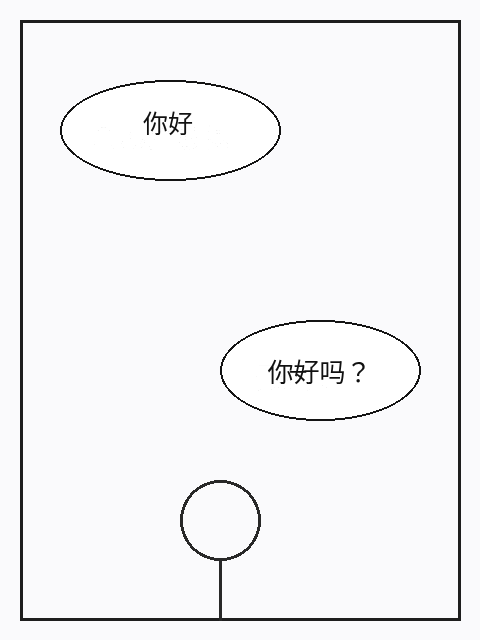
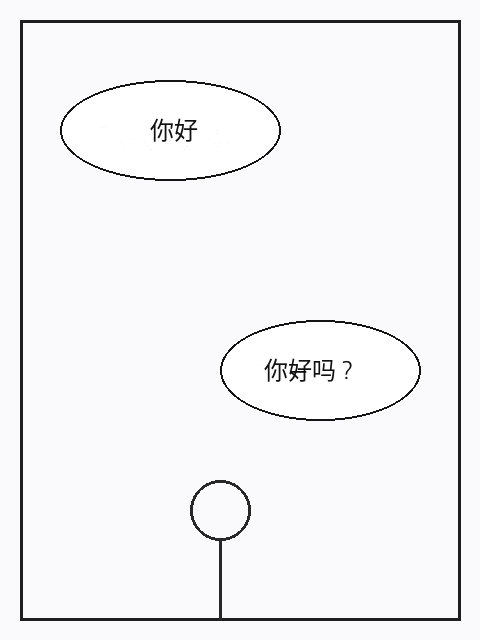
Fix manga interior rescue, overlap preflight and session lifecycle

Changed region(s): [[0.375, 0.75, 0.5625, 0.875], [0.5312, 0.5625, 0.7812, 0.625], [0.2812, 0.1562, 0.4062, 0.2188]]

diff --git a/manga-content.js b/manga-content.js
@@ -3,6 +3,8 @@
   globalThis.kiloceanMangaInstalled = true;
   const U = globalThis.DeepSeekTranslatorUtils;
   let generation=0, host, token;
+  const hideOverlays=U.createMangaOverlayHider();
+  const captureReleases=new Set();
   const send = async message => {
     const result=await chrome.runtime.sendMessage(message);
     if (!result?.ok) throw new Error(result?.error || "无法处理选区");
@@ -10,6 +12,8 @@
   };
   function clear() {
     generation++;
+    for (const release of captureReleases) release();
+    captureReleases.clear();
     host?.remove(); host=null;
     if (token) chrome.runtime.sendMessage({type:"MANGA_CANCEL",token}).catch(()=>{});
     token=null;
@@ -54,12 +58,10 @@
       select.onpointerdown=null;select.onpointermove=null;select.onpointerup=null;
       const selectedLayout=layout();
       bar.querySelector('span').textContent='正在本地截取选区…';
-      const hidden=[];
-      // Include text selection/progress/caption overlays as well as this UI.
-      for(const el of document.querySelectorAll('[data-deepseek-translator-ui],#kilocean-progress-host,#kilocean-selection-host,#deepseek-translator-toast-host')) {
-        if (!['fixed','absolute'].includes(getComputedStyle(el).position)) continue;
-        hidden.push([el,el.style.visibility]);el.style.visibility='hidden';
-      }
+      // Shared ownership across overlapping generations prevents stale restores.
+      const releaseOverlays=hideOverlays(Array.from(document.querySelectorAll('[data-deepseek-translator-ui],#kilocean-progress-host,#kilocean-selection-host,#deepseek-translator-toast-host'))
+        .filter(el=>['fixed','absolute'].includes(getComputedStyle(el).position)));
+      captureReleases.add(releaseOverlays);
       try {
         await new Promise(r=>requestAnimationFrame(()=>requestAnimationFrame(r)));
         const capture=await send({type:"MANGA_CAPTURE",token:binding});
@@ -73,7 +75,7 @@
         const ctx=canvas.getContext('2d',{willReadFrequently:true});
         ctx.drawImage(img,x,y,canvas.width,canvas.height,0,0,canvas.width,canvas.height);
         const original=canvas.toDataURL('image/png');
-        const hash=await U.mangaHash(original+selectedLayout);
+        const {hash,layout:layoutHash}=await send({type:"MANGA_HASH",token:binding,image:original,layout:selectedLayout});
         if(!alive())return;
         select.remove();box.remove();bar.replaceChildren();
         const note=document.createElement('span');note.textContent='仅将选区发送至 DeepSeek 翻译';bar.append(note);
@@ -85,13 +87,13 @@
           if(layout()!==selectedLayout){note.textContent='页面位置已变化，请取消后重新框选';return;}
           confirm.disabled=true;note.textContent='DeepSeek 正在识别与翻译…';
           try {
-            const result=await send({type:'MANGA_TRANSLATE',token:binding,confirmed:true,image:original,width:canvas.width,height:canvas.height,layout:selectedLayout,hash});
+            const result=await send({type:'MANGA_TRANSLATE',token:binding,confirmed:true,image:original,width:canvas.width,height:canvas.height,layout:layoutHash,hash});
             if(!alive() || result.hash!==hash)return;
             if(layout()!==selectedLayout)throw new Error('页面位置已变化，结果未显示，请重新框选');
-            const count=U.mangaDraw(ctx,result.bubbles,canvas.width,canvas.height);
-            note.textContent=`已替换 ${count} 处；不可靠或非白底区域保留原图。页面翻页后请重新框选。`;
+            const drawn=U.mangaDraw(ctx,result.bubbles,canvas.width,canvas.height);
+            note.textContent=U.mangaResultNote(drawn,result.bubbles.length);
             preview.remove();confirm.remove();
-            if(!count)return;
+            if(!drawn.painted)return;
             Object.assign(canvas.style,{left:rect.x+'px',top:rect.y+'px',width:rect.w+'px',height:rect.h+'px'});
             root.prepend(canvas);
             button('原图 / 译图',()=>{canvas.hidden=!canvas.hidden;});
@@ -100,17 +102,21 @@
           } catch(error) {if(alive()){note.textContent=error.message+'；请取消后重试';confirm.remove();}}
         });
       } catch(error) {if(alive())bar.querySelector('span').textContent=error.message+'；请取消后重试';}
-      finally {for(const [el,visibility] of hidden)el.style.visibility=visibility;}
+      finally {captureReleases.delete(releaseOverlays);releaseOverlays();}
     };
   }
   // Navigation clears bindings; reader-internal page flips cannot be reliably detected.
   addEventListener('pagehide',clear);
   addEventListener('popstate',clear);
+  addEventListener('hashchange',clear);
   addEventListener('resize',clear);
-  addEventListener('scroll',()=>{if(host)clear();},{passive:true});
+  addEventListener('scroll',()=>{if(host)clear();},{passive:true,capture:true});
   addEventListener('keydown',e=>{if(e.key==='Escape')clear();});
   chrome.runtime.onMessage.addListener((message,sender,reply)=>{
-    if(sender.id!==chrome.runtime.id || message?.type!=='MANGA_START')return;
+    if(sender.id!==chrome.runtime.id)return;
+    // tabs.onUpdated reports detectable pushState/replaceState URL changes.
+    if(message?.type==='MANGA_INVALIDATE') { if(message.token===token)clear(); return; }
+    if(message?.type!=='MANGA_START')return;
     start().catch(()=>clear());reply({ok:true});
   });
 })();

diff --git a/shared.js b/shared.js
@@ -1032,30 +1032,32 @@
   }
   function mangaDraw(ctx, bubbles, width, height) {
     let painted=0;
-    const paintedBoxes=[];
-    for (const b of bubbles) {
-      let box=mangaBox(b,width,height);
-      if (!box) continue;
+    const plans=bubbles.map(b=>({b, box:mangaBox(b,width,height),
+      raw:mangaBox({...b,confidence:1,translation:"geometry"},width,height)}));
+    for (const plan of plans) {
+      const b=plan.b;
+
+      let box=plan.box;
+      if (!box) { plan.reason="invalid-box-or-confidence"; continue; }
       let region=ctx.getImageData(box[0],box[1],box[2]-box[0],box[3]-box[1]);
       if (!mangaWhiteRegion(region.data,box[2]-box[0],box[3]-box[1])) {
-        const original=mangaWhiteStats(region.data,box[2]-box[0],box[3]-box[1]);
         let expanded=false;
-        // Tight OCR bounds can clip glyph strokes. Only rescue an already
-        // mostly-white interior when a small margin improves edge safety.
-        if (original.white>=.85) for (const pad of [2,4,6]) {
+        // The same safety thresholds apply to every candidate, including
+        // interior failures whose original perimeter is already perfectly white.
+        for (const pad of [2,4,6,8]) {
           const candidate=mangaBox({...b,bbox:[Math.max(0,box[0]-pad),Math.max(0,box[1]-pad),Math.min(width,box[2]+pad),Math.min(height,box[3]+pad)]},width,height);
           if (!candidate) continue;
           const cw=candidate[2]-candidate[0], ch=candidate[3]-candidate[1];
           const sample=ctx.getImageData(candidate[0],candidate[1],cw,ch);
           const stats=mangaWhiteStats(sample.data,cw,ch);
-          if (stats.white>=.88 && stats.interior>=.88 && stats.perimeter>=.9 && stats.perimeter>original.perimeter) {
+          if (stats.white>=.88 && stats.interior>=.88 && stats.perimeter>=.9) {
             box=candidate; region=sample; expanded=true; break;
           }
         }
-        if (!expanded) continue;
+        if (!expanded) { plan.reason="unsafe-background"; continue; }
       }
       const [x,y,right,bottom]=box, w=right-x,h=bottom-y;
-      if (paintedBoxes.some(([a,b,c,d])=>x<c && right>a && y<d && bottom>b)) continue;
+
       const chars=Array.from(b.translation.trim());
       let size= Math.min(28,Math.floor(h/2)), lines;
       for (;size>=10;size--) {
@@ -1066,19 +1068,60 @@
         }
         if (lines.length*size*1.25 <= h-8 && lines.every(line=>ctx.measureText(line).width<=w-8)) break;
       }
-      if (size<10) continue;
+      if (size<10) { plan.reason="text-does-not-fit"; continue; }
+      Object.assign(plan,{box,region,size,lines});
+    }
+    // Resolve every overlap before any pixel write, including expanded boxes
+    // and plausible geometry from low-confidence OCR entries.
+    const overlaps=(a,b)=>a && b && a[0]<b[2] && a[2]>b[0] && a[1]<b[3] && a[3]>b[1];
+    for (let i=0;i<plans.length;i++) for (let j=i+1;j<plans.length;j++) {
+      const a=plans[i], b=plans[j];
+      if (overlaps(a.box,b.box) || overlaps(a.raw,b.raw) || overlaps(a.box,b.raw) || overlaps(a.raw,b.box)) {
+        a.reason=b.reason="overlap";
+      }
+    }
+    for (const plan of plans) {
+      if (plan.reason) continue;
+      const {box,region,size,lines}=plan;
+      const [x,y,right,bottom]=box, w=right-x,h=bottom-y;
+      ctx.font=`${size}px sans-serif`;
       region.data.set(mangaEraseInk(region.data,w,h));
       ctx.putImageData(region,x,y);
       ctx.fillStyle="#111"; ctx.textAlign="center"; ctx.textBaseline="middle";
       lines.forEach((line,i)=>ctx.fillText(line,x+w/2,y+h/2+(i-(lines.length-1)/2)*size*1.25));
-      paintedBoxes.push(box);
       painted++;
     }
-    return painted;
+    return {painted, skipped:plans.filter(p=>p.reason).map(p=>({reason:p.reason,
+      text:typeof p.b?.text==="string" ? p.b.text.slice(0,300) : "", bbox:p.raw}))};
+  }
+
+  function mangaResultNote(result, total) {
+    if (!result.painted) return "未替换文字；定位不稳或背景不安全，保留完整原图。请重新框选。";
+    return `已替换 ${result.painted}/${total}；${result.skipped.length ? `${result.skipped.length} 处定位不稳或不适合覆盖，保留原图。` : ""}页面翻页后请重新框选。`;
+  }
+  function createMangaOverlayHider() {
+    const owned=new Map();
+    return elements=>{
+      const acquired=[];
+      for (const el of new Set(elements)) {
+        let entry=owned.get(el);
+        if (!entry) { entry={count:0,visibility:el.style.visibility}; owned.set(el,entry); }
+        entry.count++; el.style.visibility="hidden"; acquired.push(el);
+      }
+      let released=false;
+      return ()=>{
+        if (released) return;
+        released=true;
+        for (const el of acquired) {
+          const entry=owned.get(el);
+          if (--entry.count===0) { el.style.visibility=entry.visibility; owned.delete(el); }
+        }
+      };
+    };
   }
 
   return {
-    mangaBox, mangaWhiteRegion, mangaEraseInk, mangaHash, mangaDraw,
+    mangaBox, mangaWhiteRegion, mangaWhiteStats, mangaEraseInk, mangaHash, mangaDraw, mangaResultNote, createMangaOverlayHider,
     DISPLAY_MODES,
     TARGET_LANGUAGE_NAMES,
     X_TRANSLATABLE_SELECTOR,

diff --git a/background.js b/background.js
@@ -269,7 +269,11 @@ chrome.tabs.onRemoved.addListener((tabId) => {
 });
 
 chrome.tabs.onUpdated.addListener((tabId, changeInfo) => {
-  if (changeInfo.status === "loading" || changeInfo.url) withdrawManga(tabId);
+  if (changeInfo.status === "loading" || changeInfo.url) {
+    const token=mangaSessions.get(tabId)?.token;
+    if (token) chrome.tabs.sendMessage(tabId,{type:"MANGA_INVALIDATE",token}).catch(()=>{});
+    withdrawManga(tabId);
+  }
   // Same-tab navigation destroys the content script; drop stale pending
   // selection + badge so the popup cannot confirm against a new document.
   if (changeInfo.url != null || changeInfo.status === "loading") {
@@ -547,6 +551,15 @@ async function mangaMessage(message, sender) {
   const session=mangaSessions.get(tabId);
   if (!session || session.token !== message.token) throw new Error("选区已失效");
   if (message.type === "MANGA_CANCEL") { withdrawManga(tabId); return {ok:true}; }
+  // Hash in the secure worker: HTTP content worlds may have no crypto.subtle.
+  if (message.type === "MANGA_HASH") {
+    if (typeof message.layout!=="string" || message.layout.length>1000000 ||
+        typeof message.image!=="string" || message.image.length>16000000) throw new Error("无效选区");
+    const layout=await DeepSeekTranslatorUtils.mangaHash(message.layout);
+    const hash=await DeepSeekTranslatorUtils.mangaHash(message.image+layout);
+    if (mangaSessions.get(tabId)!==session) throw new Error("选区已失效");
+    return {ok:true,layout,hash};
+  }
   if (message.type === "MANGA_CAPTURE") {
     const active=await chrome.tabs.query({active:true,windowId:sender.tab.windowId});
     if (active[0]?.id !== tabId) throw new Error("请保持当前标签页可见");
@@ -585,9 +598,15 @@ async function mangaMessage(message, sender) {
     if (typeof raw!=="string" || raw.length>100000) throw new Error("OCR 返回格式无效");
     const parsed=JSON.parse(raw.replace(/^```(?:json)?\s*|\s*```$/g,""));
     if (!Array.isArray(parsed.bubbles) || parsed.bubbles.length>100) throw new Error("OCR 返回格式无效");
-    const bubbles=parsed.bubbles.filter(b=>DeepSeekTranslatorUtils.mangaBox(b,message.width,message.height));
+    // Keep unreliable entries surfaceable; never silently drop OCR misses.
+    const bubbles=parsed.bubbles.map(b=>({
+      text:typeof b?.text==="string" ? b.text.slice(0,300) : "",
+      translation:typeof b?.translation==="string" ? b.translation.slice(0,301) : "",
+      bbox:Array.isArray(b?.bbox) && b.bbox.length===4 ? b.bbox : null,
+      confidence:Number.isFinite(b?.confidence) ? b.confidence : 0
+    }));
     if (!current()) throw new Error("选区已失效");
-    if (bubbles.length) {
+    if (bubbles.some(b=>DeepSeekTranslatorUtils.mangaBox(b,message.width,message.height))) {
       mangaCache.set(cacheKey,bubbles);
       if (mangaCache.size>8) mangaCache.delete(mangaCache.keys().next().value);
     }

diff --git a/testdata/manga/index.html b/testdata/manga/index.html
@@ -1,0 +1,13 @@
+<!doctype html><meta charset="utf-8"><title>Kilocean manga fixtures</title>
+<style>body{font:16px/1.5 system-ui;margin:24px;background:#f5f6f8;color:#1f2937}
+img{max-width:320px;background:#fff;border:1px solid #e5e7eb;border-radius:8px}
+.grid{display:grid;grid-template-columns:repeat(auto-fill,minmax(280px,1fr));gap:20px}
+h1{font-size:20px} p{color:#6b7280}</style>
+<h1>原创漫画测试页（非 Jump+）</h1>
+<p>用于千浩翻译「框选翻译漫画」本机验收。全部为合成图。</p>
+<div class="grid">
+<figure><img src="sample-page-ja.png" alt="dual"><figcaption>双白底气泡（基础）</figcaption></figure>
+<figure><img src="fixture-vertical-ja.png" alt="vertical"><figcaption>竖排白底气泡</figcaption></figure>
+<figure><img src="fixture-small-dual-ja.png" alt="small"><figcaption>小字双气泡</figcaption></figure>
+<figure><img src="fixture-complex-bg-ja.png" alt="complex"><figcaption>复杂底+白气泡</figcaption></figure>
+</div>

diff --git a/testdata/manga/README.md b/testdata/manga/README.md
@@ -1,33 +1,49 @@
-# Manga MVP fixtures and offline demo
+# Manga MVP fixtures and Node-only validation
 
-`sample-page-ja.png` is the supplied synthetic Japanese test page. No user screenshots are used in tests.
+All four supplied images are original synthetic fixtures, not user screenshots or scraped manga:
 
-`out-before.png` and `out-after.png` are generated by `scripts/manga-browser-check.mjs` from that fixture with hand-annotated bubble boxes (including the reported tight OCR box `[82,104,254,146]`). The production `mangaDraw` function performs white-region checks, selective ink erasure, fitting and text rendering. **No vision API was called.** These demonstrate rendering, not OCR accuracy.
+- `sample-page-ja.png`: two white speech bubbles and a lower stick figure.
+- `fixture-vertical-ja.png`: vertical Japanese text.
+- `fixture-small-dual-ja.png`: two smaller text bubbles.
+- `fixture-complex-bg-ja.png`: white bubbles over a complex background.
+- `index.html`: local fixture gallery.
 
-Run the mandatory keyless suite:
+## Required keyless gate
 
 ```sh
 node scripts/ci-check.mjs
 ```
 
-Optional browser check and regenerate images (dependencies stay outside the repository):
+No browser, canvas dependency, credentials or API calls are needed. The fixture PNG is decoded with Node/zlib for a production-renderer regression: top bbox `[82,103,260,152]` has perfectly white perimeter but interior below 88%; expansion must rescue it so both bubbles paint. Tests also cover symmetric overlap rejection before writes, visible skip/zero-result notes, selective ink erase/art preservation, refcounted capture hides, secure-worker hashing of long HTTP layouts, navigation invalidation, privacy/consent, stale replies and bounded success-only caching.
+
+## Explicit live probe / offline replay (Node + canvas)
+
+Canvas is installed outside the repo at `/tmp/manga-node-canvas/node_modules/canvas`.
 
 ```sh
-npm install --prefix /tmp/manga-browser-tools playwright-core --no-audit --no-fund
-PLAYWRIGHT_MODULE=/tmp/manga-browser-tools/node_modules/playwright-core/index.mjs node scripts/manga-browser-check.mjs
+# Opt-in: one DeepSeek call per supplied fixture, four maximum, no retries.
+RUN_MANGA_LIVE=1 node scripts/manga-live-probe.mjs
+
+# Default: replay existing JSON responses with zero API calls and no key read.
+node scripts/manga-live-probe.mjs
 ```
 
-Set `CHROME_PATH` if Chrome is not `/usr/bin/google-chrome`. This check mocks the extension runtime and vision response, while using real mouse drags/clicks, canvas cropping and production rendering. It verifies hidden capture overlays, zero requests before confirmation or after cancellation, one crop upload, reversible toggle and ignored late replies. It is not an unpacked-extension end-to-end API test.
+Only the opt-in path reads `/home/box/.secrets/deepseek_api_key`; the key is never printed. The script calls the real worker handler with fixture PNGs and renders using production `mangaDraw`. Responses, review PNGs and a report go to `/workspace/kt-manga-review/`, outside this worktree and commits. The sample asserts exactly two painted bubbles and pixel-for-pixel preservation of the lower art band, including a positive dark-pixel mass. Printed results include painted/skipped counts. No retries are made for OCR misses.
+
+`out-before.png` and `out-after.png` show the current supplied sample and the Node-rendered live-response replay. They are renderer evidence for this fixture, not a guarantee of reader or OCR compatibility.
+
+The older `scripts/manga-browser-check.mjs` is a **legacy, unrun browser harness**. It is not part of this gate, is not current validation evidence, and must not be used for this Node-only task. No Playwright or CDP was run for this pass.
 
 ## Try the extension
 
-Load the repository root unpacked. Configure a DeepSeek key in settings (the manga action always uses DeepSeek, even if text translation uses Kimi). Open the popup's **更多 → 框选翻译漫画（DeepSeek）**, drag a visible region, inspect its local preview, then confirm **翻译选区**. Cancel/Escape sends no image. Use **原图 / 译图** to switch reversibly; **更多** on the result offers download. Existing **翻译此页** remains the text/YouTube path.
+Load the root unpacked, configure a DeepSeek key, then use **更多 → 框选翻译漫画（DeepSeek）**. Drag a visible region, review the local crop and confirm **翻译选区**. Cancel/Escape sends no image. Switch **原图 / 译图** without another request; download is under **更多**. Existing text/YouTube translation remains separate.
 
-## Limits
+## Safety and limits
 
-- Only the current visible tab region is captured. No chapter fetching or page scraping.
-- OCR/bbox quality from DeepSeek is unverified by this offline suite. Confidence >= 0.9, plausible pixel bounds, at least 88% near-white pixels and a 90% near-white two-pixel perimeter are required; uncertain/nonwhite, overlapping or overflowing text regions retain their original pixels. Failed tight boxes may expand by 2–6 clamped pixels only if the perimeter improves and passes validation. Only locally white-backed grayscale ink components are erased; colors, near-white background, long outlines, clipped corners and dense dark patches are preserved. These heuristics cannot guarantee perfect art preservation; inspect the reversible result.
-- Scroll/resize/navigation withdraw the current selection/result. Reader-internal page flips (including Jump+), zoom implementations and canvas readers have limited compatibility; there is no reliable automatic page-turn detector. Trigger a new selection after a flip; it immediately removes the previous result.
-- Results are held in an eight-entry, in-memory OCR cache keyed by SHA-256 of the cropped image plus viewport/layout/URL and target language. Worker restart clears it. Invalid/failed/aborted responses are not cached. Layout or crop changes prevent reuse.
-- Max 16 megapixels / roughly 12 MB PNG crop; 60-second request deadline. Conservative rendering may replace zero bubbles and report that originals were retained.
-- Active-tab capture cannot run on restricted browser pages. Permissions, API hosts and extension version are unchanged; no persistent content scripts or generative artwork requests are added.
+- Confidence stays >=0.9. Region validation requires >=88% near-white overall, >=88% near-white interior and >=90% near-white two-pixel perimeter. Clamped 2–8px expansion must pass all the same thresholds; the perimeter need not strictly improve if already white.
+- Only grayscale ink marks backed by local white are erased; no whole-box fill. Colored pixels, near-white background, long outlines, clipped corners and dense patches are preserved. All overlapping boxes are rejected before any painting. Model uncertainty and these heuristics still limit art/OCR accuracy.
+- The UI shows painted/reported totals and a preservation note for skipped regions. With zero replacements it keeps the full original and displays degradation. OCR omissions cannot be counted if the provider reports no box for missing text.
+- Scroll events, including overflow-reader scrolls (capture phase), resize and detectable navigation clear the overlay. Worker URL notifications cover detectable pushState/replaceState URL changes. Same-URL internal page flips cannot reliably be detected; Jump+, reader zoom and page-turn compatibility remain limited. Retrigger after flipping.
+- Long URL/layout identities and cropped-image hashes are computed in the secure worker, so HTTP pages do not depend on content-world `crypto.subtle`. Only a bounded layout digest accompanies translation. Local stale checks retain the full identity.
+- Capture hides are reference-counted across overlapping requests. Cache capacity remains eight OCR responses, keyed by crop/layout/language; failures, aborts and all-uncertain OCR are not cached. Worker restart clears it.
+- Only the visible confirmed crop is uploaded; no chapter scraping. Max 16 megapixels / roughly 12 MB PNG crop; 60-second request deadline. Permissions/hosts/version are unchanged, with no installed content scripts or generative artwork requests.
